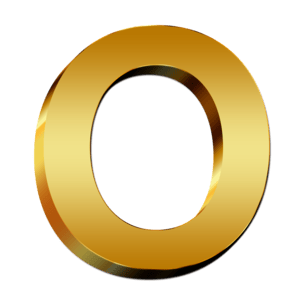
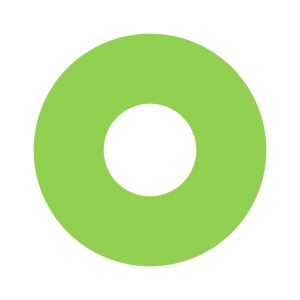
Change symbols

diff --git a/src/gui/widgets/board.py b/src/gui/widgets/board.py
@@ -45,20 +45,9 @@ class Board(ttk.Frame):
 
         n_boards = 9 if ultimate else 1
 
-        # font
-        self._font = "Roboto"
-        self._font_size = int(self._board_width / 4)
-        self._win_font_size = int(self._board_width)
-
         # bg colours
         self._cell_disabled_color = "#E0E0E0"
         self._cell_enabled_color = "#FFFFFF"
-
-        # font colour
-        self._x_color = "#CB70FF"
-        self._o_color = "#44BC68"
-        self._draw_color = "#FFB300"
-        self._default_color = "#ABABAB"
 
         self._canvas = Canvas(self, width=width, height=width, highlightthickness=0)
         self._canvas.bind("<Button-1>", lambda event: self._on_click(event))
@@ -105,11 +94,16 @@ class Board(ttk.Frame):
         self._default_bloch_img = self._import_img("Bloch_-1.png")
         self._cross_img = self._import_img("X.png")
         self._circle_img = self._import_img("O.png")
+        self._cross_win_img = self._import_img("X_big.png")
+        self._circle_win_img = self._import_img("O_big.png")
+        self._draw_img = self._import_img("draw.png")
+        self._empty_img = self._import_img("empty.png")
 
         self._default_bloch_img_tk = ImageTk.PhotoImage(self._default_bloch_img)
+        self._empty_img_tk = ImageTk.PhotoImage(self._empty_img)
 
         # Insert the default bloch images and save their ids
-        self._symbol_ids = [
+        self._cell_image_ids = [
             [
                 self._canvas.create_image(
                     self._index_to_pos(b, c),
@@ -121,23 +115,25 @@ class Board(ttk.Frame):
             for b in range(self._n_boards)
         ]
 
-        self._win_symbol_ids = [
-            self._canvas.create_text(
-                self._index_to_pos(b, 4),
-                text="",
-                fill=self._draw_color,
-                font=(self._font, self._win_font_size),
+        self._win_image_ids = [
+            self._canvas.create_image(
+                self._index_to_pos(b, 4), anchor="center", image=self._empty_img_tk
             )
-            for b in range(n_boards)
+            for b in range(self._n_boards)
         ]
 
         # Save references to the images so they don't get garbage collected
-        self._image_refs = [
+        self._cell_image_refs = [
             [
                 {"img": self._default_bloch_img, "img_tk": self._default_bloch_img_tk}
                 for c in range(9)
             ]
             for b in range(self._n_boards)
+        ]
+
+        self._win_image_refs = [
+            {"img": self._empty_img, "img_tk": self._empty_img_tk}
+            for _ in range(self._n_boards)
         ]
 
         self.bind("<Configure>", self._on_resize)
@@ -216,9 +212,7 @@ class Board(ttk.Frame):
         self._entanglement_ids[board].clear()
 
         # clear win symbol
-        self._canvas.itemconfigure(
-            self._win_symbol_ids[board], text="", fill=self._draw_color
-        )
+        self._set_win_image(board, self._empty_img)
 
     def update_display(self, board: int, states: list[State]) -> None:
         """Update symbols to display on `board`.
@@ -252,15 +246,15 @@ class Board(ttk.Frame):
             winner: subboard winner
         """
 
-        id = self._win_symbol_ids[board]
-
         match winner:
             case State.X:
-                self._canvas.itemconfigure(id, text="X", fill=self._x_color)
+                img = self._cross_win_img
             case State.O:
-                self._canvas.itemconfigure(id, text="O", fill=self._o_color)
+                img = self._circle_win_img
             case State.DRAW:
-                self._canvas.itemconfigure(id, text="?")
+                img = self._draw_img
+
+        self._set_win_image(board, img)
 
     def touch_cell(self, board: int, cell: int, state_vector: list[int]) -> None:
         """Touch `cell` on `board`.
@@ -312,7 +306,7 @@ class Board(ttk.Frame):
 
         return (x, y)
 
-    def _set_cell_image(self, board, cell, img) -> None:
+    def _set_cell_image(self, board: int, cell: int, img: Image.Image) -> None:
         """Set the image of `cell` on `board`.
 
         The image will be resized to be the same size as the cell.
@@ -326,10 +320,27 @@ class Board(ttk.Frame):
         width = int(self._board_width / 3)
         tk_img = ImageTk.PhotoImage(img.resize((width, width)))
 
-        self._image_refs[board][cell]["img"] = img
-        self._image_refs[board][cell]["img_tk"] = tk_img
+        self._cell_image_refs[board][cell]["img"] = img
+        self._cell_image_refs[board][cell]["img_tk"] = tk_img
 
-        self._canvas.itemconfigure(self._symbol_ids[board][cell], image=tk_img)
+        self._canvas.itemconfigure(self._cell_image_ids[board][cell], image=tk_img)
+
+    def _set_win_image(self, board: int, img: Image.Image) -> None:
+        """Set the winner image for `board`.
+
+        The image will be resized to be the same size as the board.
+
+        Args:
+            board: board index
+            img: win image
+        """
+        width = int(self._board_width)
+        tk_img = ImageTk.PhotoImage(img.resize((width, width)))
+
+        self._win_image_refs[board]["img"] = img
+        self._win_image_refs[board]["img_tk"] = tk_img
+
+        self._canvas.itemconfigure(self._win_image_ids[board], image=tk_img)
 
     def _import_img(self, name: str) -> Image.Image:
         """Imports the desired image.
@@ -442,13 +453,6 @@ class Board(ttk.Frame):
         # scale all objects on canvas
         self._canvas.scale("all", 0, 0, scale, scale)
 
-        # scale win symbols
-        self._win_font_size = int(self._board_width)
-        font = (self._font, self._win_font_size)
-
-        for id in self._win_symbol_ids:
-            self._canvas.itemconfigure(id, font=font)
-
         # scale entanglement line width
         for list in self._entanglement_ids:
             for id in list:
@@ -470,5 +474,10 @@ class Board(ttk.Frame):
 
         # scale images
         for board in range(self._n_boards):
+            # scale cell images
             for cell in range(9):
-                self._set_cell_image(board, cell, self._image_refs[board][cell]["img"])
+                self._set_cell_image(
+                    board, cell, self._cell_image_refs[board][cell]["img"]
+                )
+            # scale win symbol images
+            self._set_win_image(board, self._win_image_refs[board]["img"])
